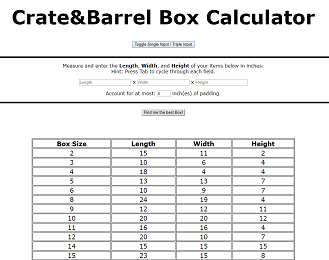
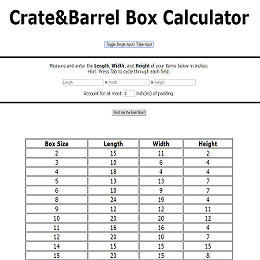
General Adjustments

diff --git a/index.html b/index.html
@@ -11,7 +11,6 @@
         <link rel="stylesheet" href="public/css/main.css">
         <link rel="stylesheet" href="https://unpkg.com/aos@next/dist/aos.css" />
         <link rel="shortcut icon" type="image/jpg" href="res/favicon.jpg"/>
-        <link href="https://fonts.googleapis.com/css?family=Sansita&display=swap" rel="stylesheet">
     </head>
     <body>
 
@@ -113,13 +112,13 @@
                     <h2>Crate & Barrel Box Calculator</h2>
                     <a target="_blank" rel="noopener noreferrer" href=https://github.com/Elliot-Clark/Box-Calculator>
                     <img src="res/placeholder.png" data-lazy="res/Crate Box Calculator.png" alt="Box - Elliot Clark"></a>
-                    <p>A simple calculator that takes an inputted length, width, and height of a measured area and returns the most appriopriate fitting box size from a list of avaiable sizes. While not the most galmorious project in the world, I included it in this list because I'm proud of it. I made this calculator to save time while working at Crate & Barrel and serves as the first time I've really used my coding skills to make something that is helpful to others. Used daily by myself and my coworkers at Crate & Barrel when packaging items.</p>
+                    <p>A simple calculator I built to help my coworkers and I at work save some time.</p>
                 </div>
                 <div class="project" data-aos="zoom-in-left" data-aos-delay="350">
                     <h2>Portfiolo Website</h2>
                     <a target="_blank" rel="noopener noreferrer" href=https://github.com/Elliot-Clark/My-Website>
                     <img src="res/placeholder.png" data-lazy="res/image-placeholder.png" alt="Book - Elliot Clark"></a>
-                    <p>Literally just the webpage you are on at this very moment. Made with responsive design and using such tools like Service Workers and SASS.</p>
+                    <p>Literally the webpage you are on at this very moment!</p>
                 </div>
             </div>
             <img class="vector-transition" src="res/placeholder.png" data-lazy="res/vector-transition.svg" alt="Transition Vector Pointing Down">
@@ -138,9 +137,8 @@
         </section>
 
         <footer>
-            © Elliot Clark 2019<br>
-            All images, vectors, and gifs here were custom made for the sole purpose of this website. <br> 
-            All Rights Reserved
+            © Elliot Clark 2019 All Rights Reserved<br>
+            All images, vectors, and gifs here were custom made for the sole purpose of this website.
         </footer>
         
         <script src="https://cdnjs.cloudflare.com/ajax/libs/trianglify/2.0.0/trianglify.min.js"></script>

diff --git a/public/css/main.scss b/public/css/main.scss
@@ -6,6 +6,8 @@ $BG: #F4EEE1;
     box-sizing: border-box;
     padding: 0;
     margin: 0;
+    line-height: 1.5;
+    font-family: Gilroy, sans-serif;
     
 }
 
@@ -301,7 +303,6 @@ hr::after {
         flex-direction: row;
         align-items: flex-end;
         text-align: center;
-        font-family: 'Sansita', sans-serif;
 
         span {
             font-size: 27px;
@@ -324,9 +325,8 @@ hr::after {
 footer {
     background-color: $BG;
     text-align: center;
-    font-weight: bold;
     margin-top: 3em;
-    font-size: 1.1rem;
+    font-size: .875rem;
     padding: 1rem;
 }
 

diff --git a/public/css/main.css b/public/css/main.css
@@ -3,6 +3,8 @@
           box-sizing: border-box;
   padding: 0;
   margin: 0;
+  line-height: 1.5;
+  font-family: Gilroy, sans-serif;
 }
 
 html, body {
@@ -531,7 +533,6 @@ hr::after {
       -ms-flex-align: end;
           align-items: flex-end;
   text-align: center;
-  font-family: 'Sansita', sans-serif;
 }
 
 #find-me #gif-container span {
@@ -555,9 +556,8 @@ hr::after {
 footer {
   background-color: #F4EEE1;
   text-align: center;
-  font-weight: bold;
   margin-top: 3em;
-  font-size: 1.1rem;
+  font-size: .875rem;
   padding: 1rem;
 }
 
